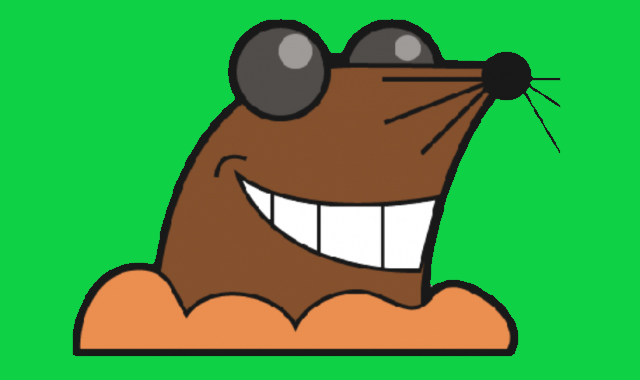
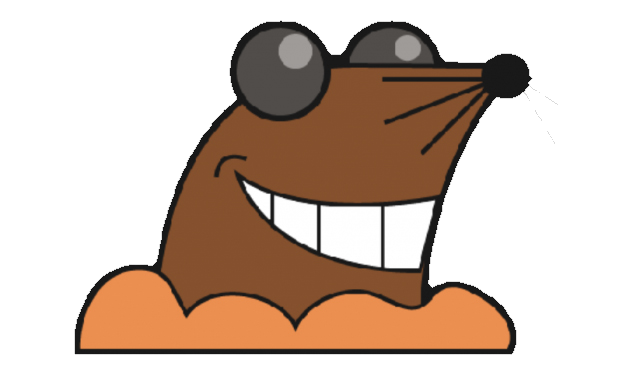
working on spawning moles

diff --git a/main.py b/main.py
@@ -4,6 +4,7 @@ For this, I have to learn how to tilt pygame images.
 '''
 
 import pygame
+import random
 pygame.init()
 pygame.font.init()
 
@@ -13,9 +14,19 @@ class MainGame():
     window = pygame.display.set_mode((WIDTH, HEIGHT))
     def __init__(self):
         self.run = True
+        self.FPS = 60
+        self.level = 0
+        self.lives = 5
+        self.mole_count = 9
+        self.moles = []
+        #*mole first stay above for 3.25 seconds (3250 milliseconds). Increment every fps
+        #Actual time will be max_time - 250 * self.level * FPS
+        #*This way self.mole_above_time_max will be 3000 for level 1 and will decrease by 250 every level. 
+        #*Every level will contain 
+        self.mole_above_time_max = self.FPS * 3250
+
         self.GRASS_BG = pygame.transform.scale(pygame.image.load("images/grass.png"), (MainGame.WIDTH, MainGame.HEIGHT))
         self.HEADER_FONT = pygame.font.SysFont("comicsans", 50)
-        self.ALIVE_MOLE = pygame.transform.scale(pygame.image.load('images/alive_mole.png'), (100, 100))
         self.HOLE_1 = pygame.transform.scale(pygame.image.load('images/dirt_hole.png'), (150, 150))
         self.HOLE_2 = pygame.transform.scale(pygame.image.load('images/dirt_hole.png'), (150, 150))
         self.HOLE_3 = pygame.transform.scale(pygame.image.load('images/dirt_hole.png'), (150, 150))
@@ -25,17 +36,31 @@ class MainGame():
         self.HOLE_7 = pygame.transform.scale(pygame.image.load('images/dirt_hole.png'), (150, 150))
         self.HOLE_8 = pygame.transform.scale(pygame.image.load('images/dirt_hole.png'), (150, 150))
         self.HOLE_9 = pygame.transform.scale(pygame.image.load('images/dirt_hole.png'), (150, 150))
+        self.HOLE_1.set_colorkey((255, 255, 255))
+        self.HOLE_2.set_colorkey((255, 255, 255))
+        self.HOLE_3.set_colorkey((255, 255, 255))
+        self.HOLE_4.set_colorkey((255, 255, 255))
+        self.HOLE_5.set_colorkey((255, 255, 255))
+        self.HOLE_6.set_colorkey((255, 255, 255))
+        self.HOLE_7.set_colorkey((255, 255, 255))
+        self.HOLE_8.set_colorkey((255, 255, 255))
+        self.HOLE_9.set_colorkey((255, 255, 255))
+        self.ALIVE_MOLE = pygame.transform.scale(pygame.image.load('images/alive_mole.png'), (100, 100))
+        self.ALIVE_MOLE.set_colorkey((255, 255, 255))
         self.BEATEN_MOLE = pygame.transform.scale(pygame.image.load('images/beaten_mole.png'), (0, 0))
         self.JOEVAN = pygame.transform.scale(pygame.image.load('images/joevan.png'), (0, 0))
         self.TROLL = pygame.transform.scale(pygame.image.load('images/trollface.png'), (0, 0))
+        self.TROLL.set_colorkey((255, 0, 0))
         self.HAMMER_IMAGE = pygame.transform.scale(pygame.image.load('images/hammer.png'), (100, 150))
         self.HAMMER_IMAGE.set_colorkey((255, 255, 255))
-        self.FPS = 60
+
         self.clock = pygame.time.Clock()
+        
+        #*mole variables
 
     def draw_background(self):
         MainGame.window.blit(self.GRASS_BG, (0,0))
-        self.lives_label = self.HEADER_FONT.render(f'Lives: {None}', 1, (255, 255, 255))
+        self.lives_label = self.HEADER_FONT.render(f'Lives: {self.lives}', 1, (255, 255, 255))
         MainGame.window.blit(self.lives_label, (10, 10))
         self.level_label = self.HEADER_FONT.render(f'Level: {None}', 1, (255, 255, 255))
         MainGame.window.blit(self.level_label, (MainGame.WIDTH - self.level_label.get_width() - 10, 10))
@@ -60,6 +85,35 @@ class MainGame():
 
         #!Moles will have a specific place they will spawn so that the hole properly covers the mole
         #*Mole
+        
+        if len(self.moles) == 0:
+            self.level += 1
+            image_dict = {
+                'real_mole1': (self.ALIVE_MOLE, self.BEATEN_MOLE),
+                'real_mole2': (self.ALIVE_MOLE, self.BEATEN_MOLE),
+                'real_mole3': (self.ALIVE_MOLE, self.BEATEN_MOLE),
+                'real_mole4': (self.ALIVE_MOLE, self.BEATEN_MOLE),
+            }
+            mole_coords_tuple = [(75, 250), (275, 250), (475, 250), (75, 450), (275, 450), (475, 450), (75, 650), (275, 650), (475, 650)]
+            mole_coords_tuple_copy = mole_coords_tuple.copy()
+            if self.level >= 3:
+                image_dict['joevan'] = (self.JOEVAN, self.TROLL)
+            for i in range(self.mole_count):
+                images = image_dict[random.choice(list(image_dict.keys()))]
+                chosen = random.choice(mole_coords_tuple_copy)
+                mole_coords_tuple_copy.remove(chosen)
+                mole_x, mole_y = chosen
+                above_time = self.mole_above_time_max - 250 * self.FPS * self.level
+                
+                #self.moles.append(Mole(20, 30, ))
+            print(above_time)
+        else:
+            pass
+
+        '''
+        for mole in self.moles:
+            mole.draw()
+        '''
 
         #*Hole (9 holes)
         self.draw_hole()
@@ -71,6 +125,7 @@ class MainGame():
 
         elif self.hammer.going_down:
             if self.hammer.current_degree < 90:
+                self.hammer.can_swing = False
                 self.hammer.swing_down()
             else:
                 self.hammer.going_down = False
@@ -82,6 +137,7 @@ class MainGame():
                 self.hammer.going_down = False
                 self.hammer.going_up = False
                 self.hammer.image = self.hammer.original_image
+                self.hammer.can_swing = True
 
         self.hammer.final_draw()
 
@@ -98,7 +154,6 @@ class MainGame():
         self.clock.tick(self.FPS)
         self.hammer = Hammer(self.HAMMER_IMAGE)
         while self.run:
-            print(self.hammer.current_degree)
             #!This forloop only runs when a new key is pressed.
             #*This makes it perfect for the space thing. 
             for event in pygame.event.get():
@@ -107,11 +162,13 @@ class MainGame():
                     self.run = False
                 elif keys[pygame.K_SPACE]:
                     #*I think I will need an additional function to draw the hammer in motion.
-                    self.hammer.going_down = True
-                    #!The commented code doesn't work because the self.hammer.image.get_width() and height changes and it won't be properly centered.
-                    #*This prevents the hammer to follow the cursor while hammer movement. 
-                    self.hammer.mouse_x = pygame.mouse.get_pos()[0] 
-                    self.hammer.mouse_y = pygame.mouse.get_pos()[1] 
+                    #*Check whether a swinging motion is currently taking place
+                    if self.hammer.can_swing:
+                        self.hammer.going_down = True
+                        #!The commented code doesn't work because the self.hammer.image.get_width() and height changes and it won't be properly centered.
+                        #*This prevents the hammer to follow the cursor while hammer movement. 
+                        self.hammer.mouse_x = pygame.mouse.get_pos()[0] 
+                        self.hammer.mouse_y = pygame.mouse.get_pos()[1] 
             self.redraw()
 
 
@@ -130,8 +187,9 @@ class Hammer():
         self.x = None
         self.y = None
         #*Swinging and bringing back speed. 
-        self.swing_vel = 1
+        self.swing_vel = 6
         #*These two variables indicate whether the hammer is in the process of going_down or going_up
+        self.can_swing = True
         self.going_down = False
         self.going_up = False
         #*Find the current degree I am at
@@ -140,7 +198,7 @@ class Hammer():
     #*I also need to consider cropping the image
     #*I can add arguments with the default value of the self.image's width and height
     def final_draw(self):
-        MainGame.window.blit(self.image, (self.x, self.y))
+        MainGame.window.blit(self.image, (int(self.x), int(self.y)))
 
     def mouse_draw(self):
         hammer_x, hammer_y = pygame.mouse.get_pos()
@@ -211,10 +269,15 @@ class Mole():
         self.x = x
         self.y = y
         self.before_image, self.after_image = images
+        self.current_image = None
+        self.mole_vel = 1
         self.above_time = above_time
 
     def draw(self):
-        pass
+        MainGame.window.blit(self.current_image, (self.x, self.y))
+
+    def move(self):
+        self.y -= self.mole_vel
 
         
 
